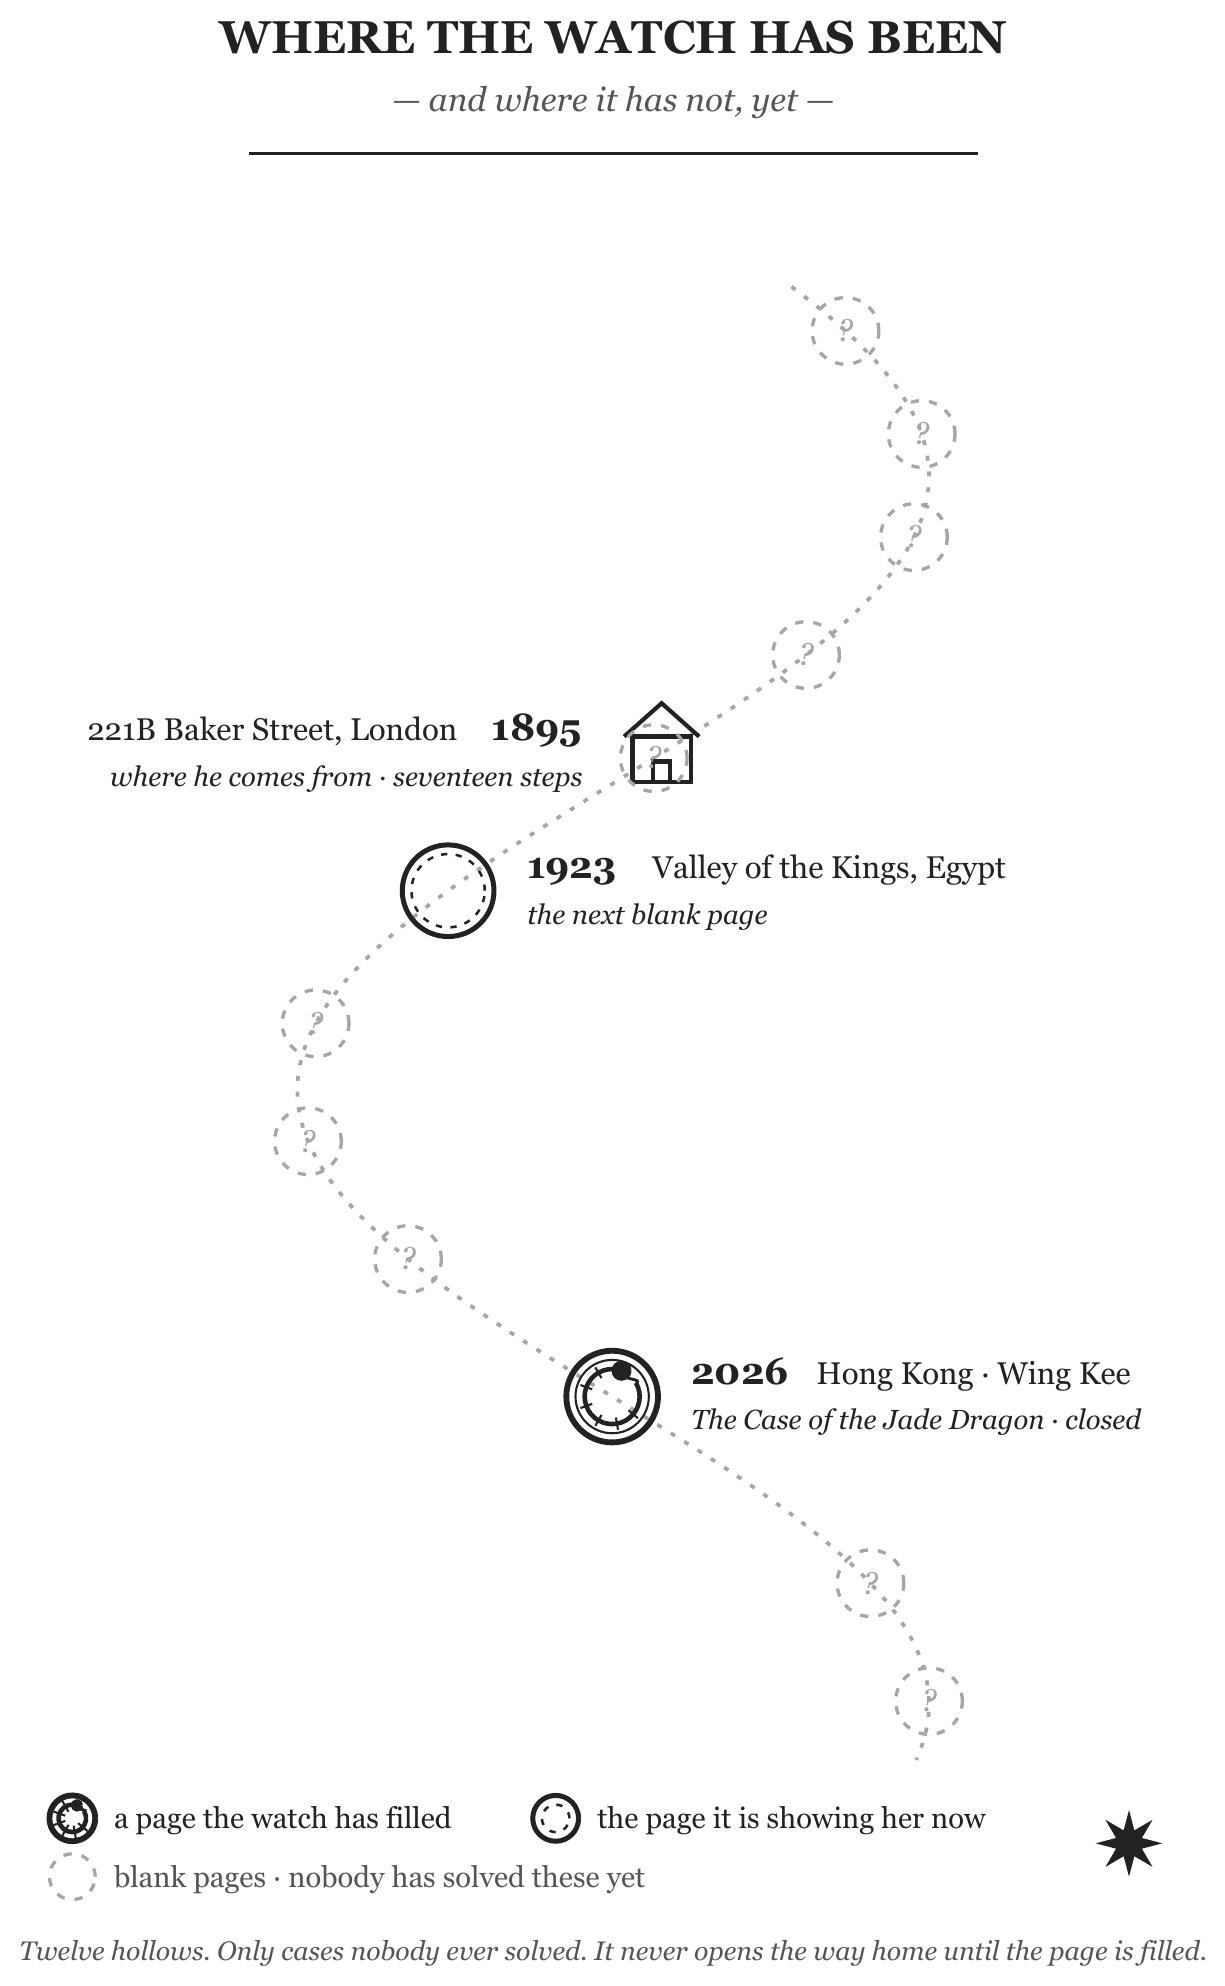
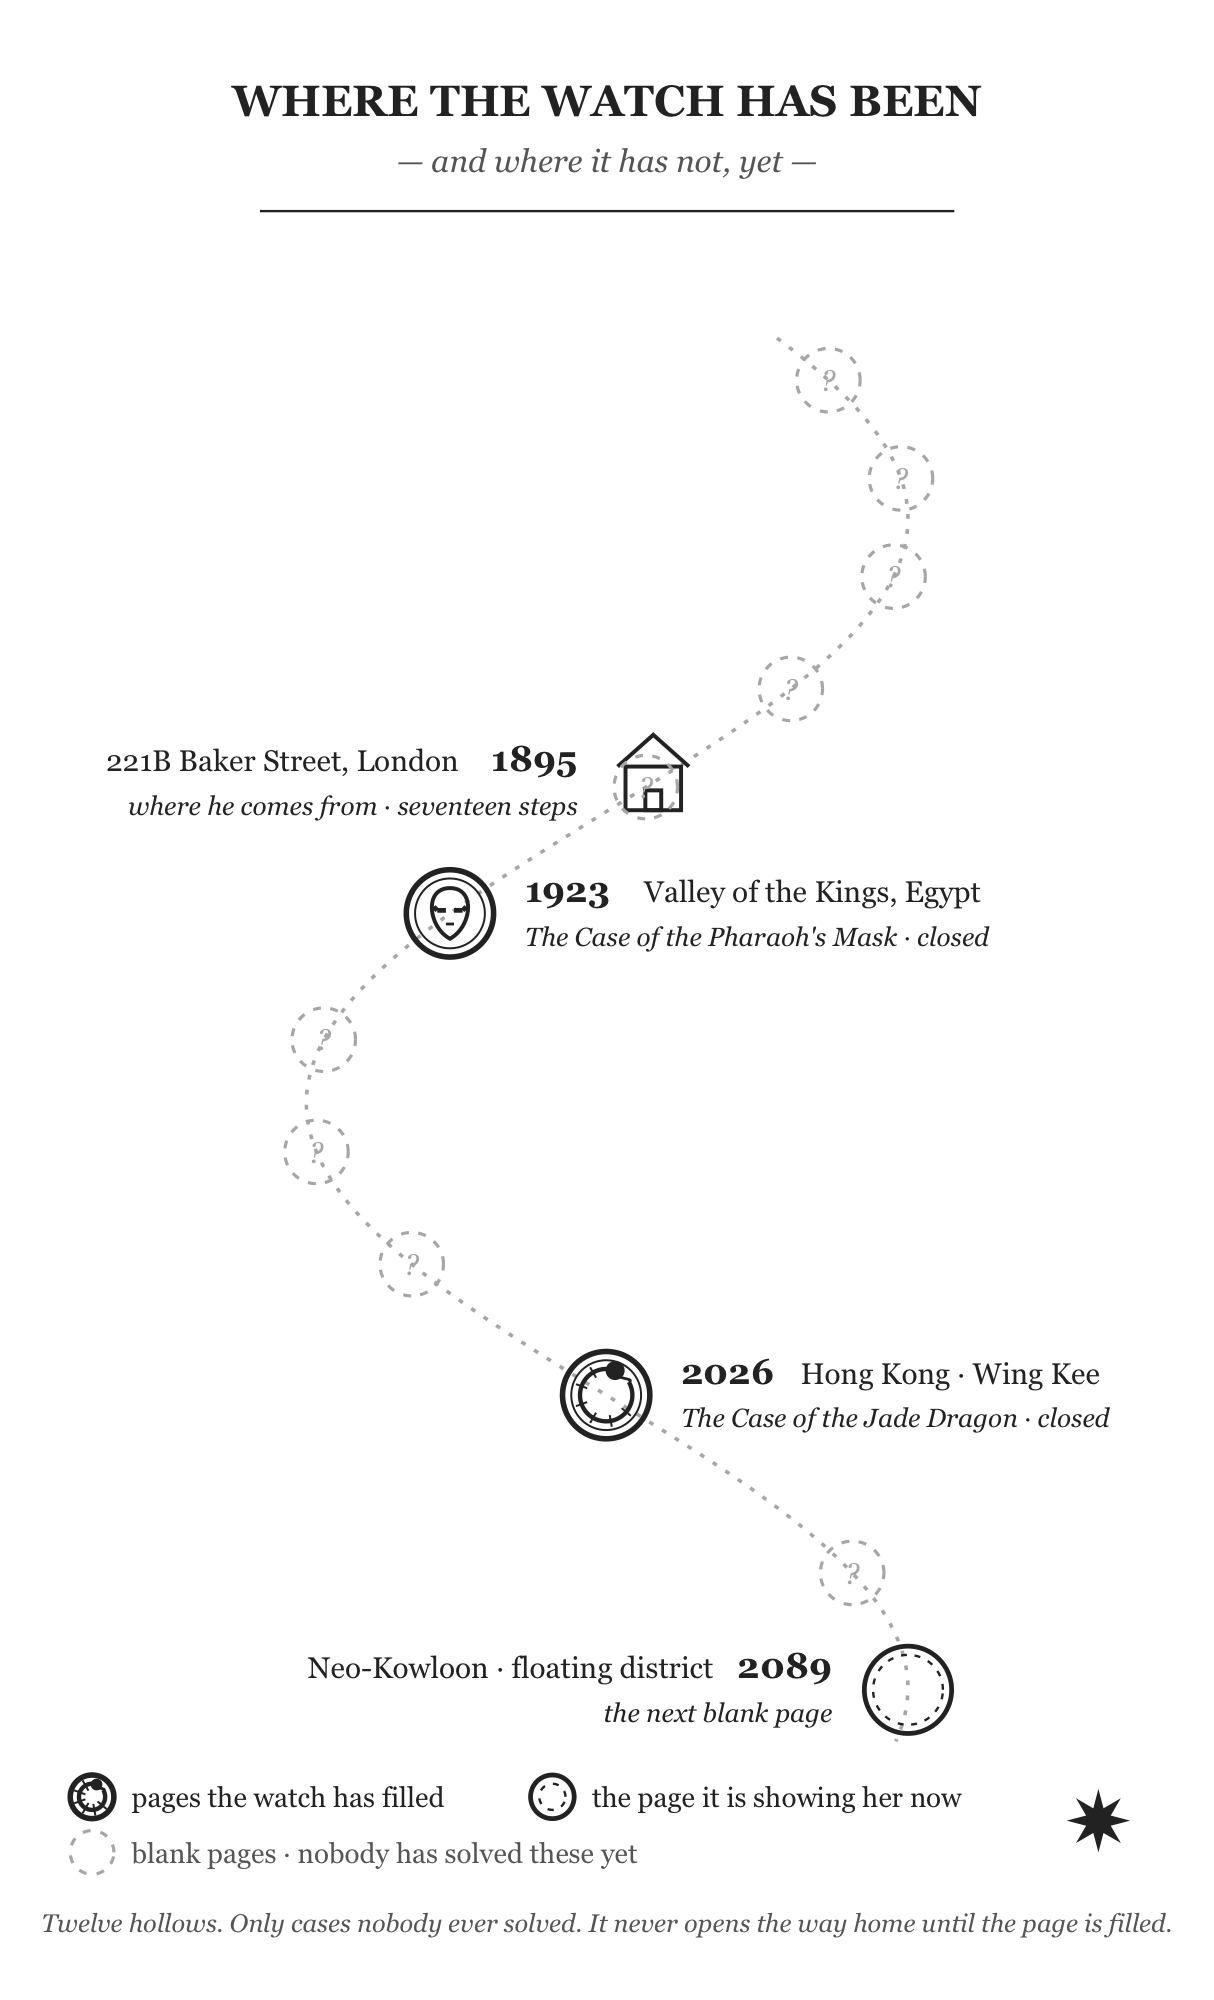
Book 2 is out: Kindle link, two hollows filled, Book 2 era map, notify block moves to Book 3

diff --git a/index.html b/index.html
@@ -20,7 +20,8 @@
  {"@type":"Organization","@id":"https://ncairay.github.io/spellbee-learning/#org","name":"SpellBee Learning","url":"https://ncairay.github.io/spellbee-learning/","logo":"https://ncairay.github.io/spellbee-learning/assets/bee.png","sameAs":["https://www.instagram.com/ncairay/","https://www.facebook.com/spellbeelearning","https://www.amazon.com/stores/NCAISM/author/B0HLSNKDLN","https://www.goodreads.com/author/show/72395743.Ncaism"]},
  {"@type":"SoftwareApplication","name":"出卷皇 ExamPaper King","alternateName":"出卷皇","applicationCategory":"EducationalApplication","operatingSystem":"iOS","url":"https://apps.apple.com/hk/app/id6807743684","description":"小學練習卷生成器：揀年級（小三至小六）、科目（中文、英文、數學）同題型，一分鐘出一份練習卷連答案卷 PDF。每月 3 份免費。","offers":{"@type":"Offer","price":"0","priceCurrency":"HKD"},"publisher":{"@id":"https://ncairay.github.io/spellbee-learning/#org"}},
  {"@type":"SoftwareApplication","name":"默書皇 SpellBee","applicationCategory":"EducationalApplication","operatingSystem":"iOS","url":"https://apps.apple.com/hk/app/id6760842186","description":"粵語、普通話、英文三語默書練習 App：家長入詞語，App 朗讀，小朋友聽住寫。","offers":{"@type":"Offer","price":"0","priceCurrency":"HKD"},"publisher":{"@id":"https://ncairay.github.io/spellbee-learning/#org"}},
- {"@type":"Book","name":"The Watson Watch: The Case of the Jade Dragon","author":{"@type":"Person","name":"NCAISM"},"isbn":"9798174764033","bookFormat":"https://schema.org/Paperback","inLanguage":"en","numberOfPages":135,"image":"https://ncairay.github.io/spellbee-learning/assets/watson-cover.jpg","url":"https://www.amazon.com/dp/B0HK33S8SW","publisher":{"@id":"https://ncairay.github.io/spellbee-learning/#org"},"description":"A Hong Kong mystery for readers 9–12. Book One of The Watson Watch."}
+ {"@type":"Book","name":"The Watson Watch: The Case of the Jade Dragon","author":{"@type":"Person","name":"NCAISM"},"isbn":"9798174764033","bookFormat":"https://schema.org/Paperback","inLanguage":"en","numberOfPages":135,"image":"https://ncairay.github.io/spellbee-learning/assets/watson-cover.jpg","url":"https://www.amazon.com/dp/B0HK33S8SW","publisher":{"@id":"https://ncairay.github.io/spellbee-learning/#org"},"description":"A Hong Kong mystery for readers 9–12. Book One of The Watson Watch."},
+ {"@type":"Book","name":"The Watson Watch: The Case of the Pharaoh's Mask","author":{"@type":"Person","name":"NCAISM"},"bookFormat":"https://schema.org/EBook","inLanguage":"en","url":"https://www.amazon.com/dp/B0H1SQS688","publisher":{"@id":"https://ncairay.github.io/spellbee-learning/#org"},"datePublished":"2026-10-08","description":"A Sherlock Holmes locked-room mystery in Egypt, 1923, for readers 9–12. Book Two of The Watson Watch."}
 ]}
 </script>
 <link rel="preconnect" href="https://fonts.googleapis.com">
@@ -34,6 +35,8 @@
 const CONFIG = {
   AMAZON_PAPERBACK: "https://www.amazon.com/dp/B0HK33S8SW",
   AMAZON_KINDLE:    "https://www.amazon.com/dp/B0HJZ7BD48",
+  BOOK2_KINDLE:     "https://www.amazon.com/dp/B0H1SQS688",   // Book 2 Kindle（KDP Select，Kindle Unlimited 可免費借）
+  BOOK2_PAPERBACK:  "",                                          // ← Book 2 平裝 live 後填 Amazon dp
   GOOGLE_PLAY:      "https://play.google.com/store/books/details?id=S7gNEgAAQBAJ",
   APPLE_BOOKS:      "https://books.apple.com/us/book/id6812719541",   // 香港/新加坡/台灣買唔到，網頁會自動註明
   SAMPLER_PDF:      "sampler-the-watson-watch-ch1-3.pdf",
@@ -131,6 +134,10 @@ const CONFIG = {
   .band .sub{color:#d7ebe5}
   .band img{background:#fff;border-radius:14px;padding:10px}
   .band a{color:#fff}
+  .band .btn{background:#fff;border-color:#fff;color:var(--jade)}
+  .band .btn.ghost{background:transparent;border-color:rgba(255,255,255,.6);color:#fff}
+  .band .btn.soon{background:rgba(255,255,255,.12);border-color:rgba(255,255,255,.25);color:#d7ebe5}
+  .band .fine{color:#d7ebe5;opacity:1}
   @media(max-width:760px){.band .wrap{grid-template-columns:1fr}}
 
   /* coloring */
@@ -166,7 +173,7 @@ const CONFIG = {
 
 <header class="hero" id="watson"><div class="wrap">
   <div>
-    <div class="kicker"><span class="en">New · Book One of twelve</span><span class="zh">新書 · 全系列十二集 · 第一集</span></div>
+    <div class="kicker"><span class="en">Book One of twelve · Book Two out now</span><span class="zh">全系列十二集 · 第一集 · 第二集已出</span></div>
     <h1>The Watson Watch</h1>
     <h2>The Case of the Jade Dragon</h2>
     <p class="hook en"><b>A shop that robbed itself. A camera that saw everything and knew nothing. A detective who has been bored for a hundred and thirty-one years.</b><br>Sam Wong-Watson is eleven, lives above her family's noodle stall in Sai Ying Pun, and writes down things that don't add up. On the night of the typhoon she finds a silver pocket watch in an old trunk and steps out of her storeroom into London, 1895. A Hong Kong mystery for readers 9–12.</p>
@@ -200,7 +207,7 @@ const CONFIG = {
   </div>
   <div class="approw">
     <div class="card"><img src="assets/bee.png" alt=""><div><h3>默書皇 SpellBee</h3><p><span class="en">Weekly dictation practice: add the words, the app reads them aloud in Cantonese, Mandarin or English, the child writes, the app marks. Free, with a one-off Pro upgrade.</span><span class="zh">日日默書唔使愁：家長入詞語，App 用粵語／普通話／英文朗讀，小朋友聽住寫，自動批改。免費，Pro 版一次買斷。</span></p><div class="btns" style="margin-top:12px" id="spellbeeBtns"></div></div></div>
-    <div class="card"><img src="assets/watson-cover.jpg" alt="" style="border-radius:6px;width:56px;height:auto"><div><h3>The Watson Watch</h3><p><span class="en">And when the paper is done: a Hong Kong mystery to read for fun. Book 1 out now, chapters 1–3 free below.</span><span class="zh">操完卷，就睇本為香港小朋友寫嘅英文偵探小說。第一集已出，頭三章免費試閱。</span></p><div class="btns" style="margin-top:12px"><a class="btn ghost" href="#watson"><span class="en">See the book</span><span class="zh">睇本書</span></a></div></div></div>
+    <div class="card"><img src="assets/watson-cover.jpg" alt="" style="border-radius:6px;width:56px;height:auto"><div><h3>The Watson Watch</h3><p><span class="en">And when the paper is done: a Hong Kong mystery to read for fun. Books 1–2 out now, chapters 1–3 free below.</span><span class="zh">操完卷，就睇本為香港小朋友寫嘅英文偵探小說。第一集已出，頭三章免費試閱。</span></p><div class="btns" style="margin-top:12px"><a class="btn ghost" href="#watson"><span class="en">See the book</span><span class="zh">睇本書</span></a></div></div></div>
   </div>
 </div></section>
 
@@ -231,9 +238,11 @@ const CONFIG = {
 
 <section class="band"><div class="wrap">
   <div>
-    <h2 class="t"><span class="en">Twelve hollows. One filled.</span><span class="zh">錶蓋十二格，而家填咗一格。</span></h2>
+    <h2 class="t"><span class="en">Twelve hollows. Two filled.</span><span class="zh">錶蓋十二格，而家填咗兩格。</span></h2>
     <p class="sub"><span class="en">The watch only opens onto cases nobody ever solved, and it will not take Sam home until one is closed. Each book etches one symbol inside the silver lid. Readers fill the lid with her.</span><span class="zh">隻錶只會開去從來冇人破過嘅案，未破案就唔會帶 Sam 返屋企。每一集喺銀錶蓋刻一個記號，讀者同 Sam 一齊填滿佢。</span></p>
-    <p><span class="en"><b>Book Two:</b> the Valley of the Kings, 1923.</span><span class="zh"><b>第二集：</b>1923 年帝王谷。</span> <a href="#notify"><span class="en">Get told when it's out →</span><span class="zh">出街通知我 →</span></a></p>
+    <p><span class="en"><b>Book Two is out: The Case of the Pharaoh's Mask.</b> The Valley of the Kings, 1923. Seven padlocks, one steel door, and the gold mask is gone.</span><span class="zh"><b>第二集已出：The Case of the Pharaoh's Mask。</b>1923 年帝王谷，七把鎖、一道鐵閘，金面具不翼而飛。</span></p>
+    <div class="btns" id="book2Btns"></div>
+    <p class="fine"><span class="en">Book Two reads on its own, but the watch makes more sense after Book One.</span><span class="zh">第二集可以獨立睇，但睇完第一集先會明隻錶。</span></p>
   </div>
   <img src="assets/era-map.png" alt="Where the watch has been — the series map">
 </div></section>
@@ -252,10 +261,10 @@ const CONFIG = {
 <section id="notify"><div class="wrap">
   <div class="notify">
     <div>
-      <h2 class="t" style="font-size:28px"><span class="en">Want to know when Book Two is out?</span><span class="zh">想知第二集幾時出？</span></h2>
+      <h2 class="t" style="font-size:28px"><span class="en">Want to know when Book Three is out?</span><span class="zh">想知第三集幾時出？</span></h2>
       <p class="sub" style="margin-bottom:0"><span class="en">One email when the next case opens, plus the occasional free chapter. Nothing else.</span><span class="zh">下一單案開檔時一封 email，間中送免費章節。冇其他嘢。</span></p>
     </div>
-    <a class="btn" id="notifyBtn" href="#"><span class="en">Tell me when Book 2 is out</span><span class="zh">Book 2 出街通知我</span></a>
+    <a class="btn" id="notifyBtn" href="#"><span class="en">Tell me when Book 3 is out</span><span class="zh">Book 3 出街通知我</span></a>
   </div>
 </div></section>
 
@@ -305,7 +314,8 @@ const CONFIG = {
   $('#spellbeeBtns').innerHTML=[btn(CONFIG.SPELLBEE_IOS,'App Store','App Store 下載','','ghost'), btn(CONFIG.SPELLBEE_ANDROID,'Android','Android 版','製作中','ghost')].join('');
   $('#samplerBtn').href=CONFIG.SAMPLER_PDF; $('#samplerBtn2').href=CONFIG.SAMPLER_PDF;
   $('#appLink').href=CONFIG.APP_PAGE; $('#mailLink').href='mailto:'+CONFIG.EMAIL; $('#mailLink').textContent=CONFIG.EMAIL;
-  $('#notifyBtn').href = CONFIG.NOTIFY_FORM || ('mailto:'+CONFIG.EMAIL+'?subject='+encodeURIComponent('Tell me when The Watson Watch Book 2 is out'));
+  $('#book2Btns').innerHTML=[btn(CONFIG.BOOK2_KINDLE,'Book 2 on Kindle','第二集 Kindle','US$4.99 · free on Kindle Unlimited'), btn(CONFIG.BOOK2_PAPERBACK,'Book 2 paperback on Amazon','第二集 Amazon 平裝','US$9.99 · coming days','ghost')].join('');
+  $('#notifyBtn').href = CONFIG.NOTIFY_FORM || ('mailto:'+CONFIG.EMAIL+'?subject='+encodeURIComponent('Tell me when The Watson Watch Book 3 is out'));
   if(CONFIG.NOTIFY_FORM){ $('#notifyBtn').target='_blank'; }
   $('#reviewCopyBtn').href='mailto:'+CONFIG.EMAIL+'?subject='+encodeURIComponent('Review copy request — The Watson Watch')+'&body='+encodeURIComponent('School / library:\nName:\nAddress for a paperback:\n');
 
